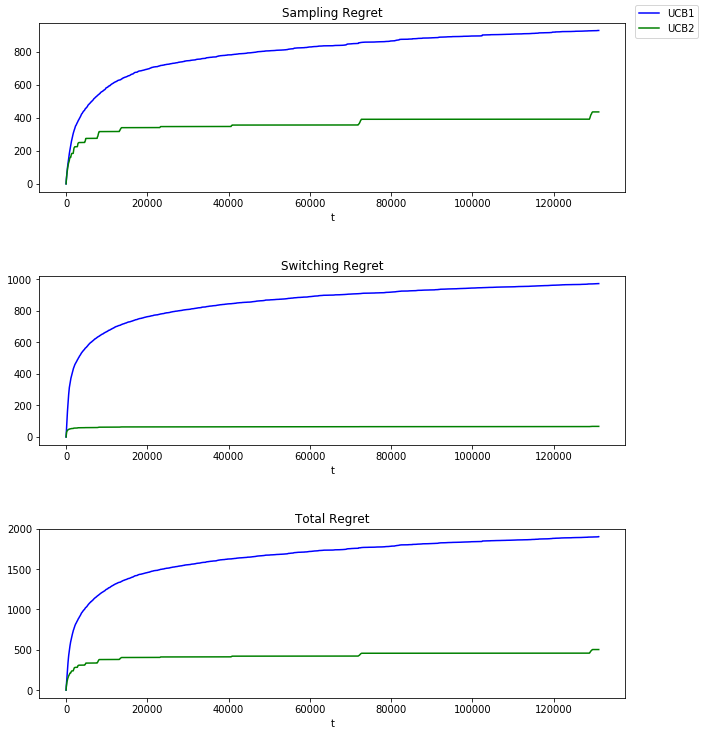
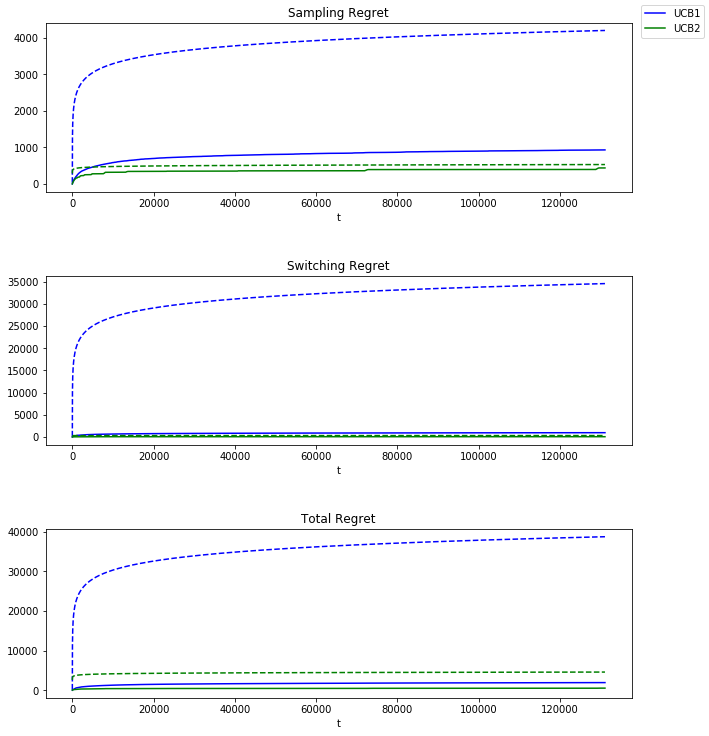
variance and th bounds

diff --git a/experiments/policies.py b/experiments/policies.py
@@ -8,6 +8,7 @@ Created on Wed Jul 18 17:02:18 2018
 from abc import ABC, abstractmethod
 from math import e, log, ceil, pi
 from scipy.optimize import newton
+from regrets import SamplingRegret, SwitchingRegret, TotalRegret
 import numpy as np
 
 #%%
@@ -43,16 +44,9 @@ class Policy(ABC):
         pass
     
     @abstractmethod
-    def theoretical_sampling_bound(self, config):
+    def theoretical_bound(self, config, regret=None):
         """
         Computes the theoretical bound of the sampling regret
-        """
-        pass
-    
-    @abstractmethod
-    def theoretical_switch_bound(self, config):
-        """
-        Computes the theoretical bound of the switching regret
         """
         pass
     
@@ -90,28 +84,26 @@ class UCB1_Policy(Policy):
         self.K = K
     
     
-    def theoretical_sampling_bound(self, config):
-        n = np.arange(config.N)
-        
+    def theoretical_bound(self, config, regret=None):
+        n = np.arange(config.N)+1
         arms = np.arange(config.K)
-        suboptimal_arms = np.concatenate(arms[:config.best_arm], arms[config.best_arm + 1:])
+        suboptimal_arms = np.delete(arms, config.best_arm)
         suboptimal_mu = config.mu[suboptimal_arms]
         delta = config.mu_max - suboptimal_mu
         
-        bound = 8*np.log(n)*np.sum(np.true_divide(1, delta)) + (1 + (pi**2)/3)*np.sum(delta)
-        return bound
-    
-    
-    def theoretical_switch_bound(self, config):
-        n = np.arange(config.N)
+        if type(regret) == SamplingRegret:            
+            bound = 8*np.log(n)*np.sum(np.true_divide(1, delta)) + (1 + (pi**2)/3)*np.sum(delta)
+            return bound
         
-        arms = np.arange(config.K)
-        suboptimal_arms = np.concatenate(arms[:config.best_arm], arms[config.best_arm + 1:])
-        suboptimal_mu = config.mu[suboptimal_arms]
-        delta = config.mu_max - suboptimal_mu
+        if type(regret) == SwitchingRegret:
+            bound = 2*config.K*(1 + (pi**2)/3) + 16*np.log(n)*np.sum(np.true_divide(1, delta**2))
+            return bound
         
-        bound = 2*config.K*(1 + (pi**2)/3) + 16*np.log(n)*np.sum(np.true_divide(1, delta**2))
-        return bound
+        if type(regret) == TotalRegret:
+            bound = 8*np.log(n)*np.sum(np.true_divide(1, delta)) + (1 + (pi**2)/3)*np.sum(delta) + 2*config.K*(1 + (pi**2)/3) + 16*np.log(n)*np.sum(np.true_divide(1, delta**2))
+            return bound
+        
+        print("Error! Default implementation executed!")
         
     
 #%%
@@ -170,23 +162,38 @@ class UCB2_Policy(Policy):
     def __tau(self, r):
         return np.ceil(np.power(1+self.alpha, r))
     
-    def theoretical_sampling_bound(self, config):
-        n = np.arange(config.N)
+    def theoretical_bound(self, config, regret=None):
+        n = np.arange(config.N)+1
         
         arms = np.arange(config.K)
-        suboptimal_arms = np.concatenate(arms[:config.best_arm], arms[config.best_arm + 1:])
+        suboptimal_arms = np.delete(arms, config.best_arm)
         suboptimal_mu = config.mu[suboptimal_arms]
         delta = config.mu_max - suboptimal_mu
         
         c_alpha = 1 + ((1 + self.alpha)*e)/(self.alpha**2) + (((1+self.alpha)/self.alpha)**(1+self.alpha))*(1+(11*(1+self.alpha))/(5*(self.alpha**2)*log(1+self.alpha)))
-        bound = 0
-        for delta_i in delta:
-            bound = bound + (((1+self.alpha)*(1+4*self.alpha)*np.log(2*e*n*(delta_i**2)))/(2*delta_i) + c_alpha/delta_i)
-        return bound
         
-    
-    def theoretical_switch_bound(self, config):
-        pass
+        if type(regret) == SamplingRegret:            
+            bound = 0
+            for delta_i in delta:
+                bound = bound + (((1+self.alpha)*(1 + 4*self.alpha)*np.log(2*e*n*(delta_i**2)))/(2*delta_i) + c_alpha/delta_i)
+                return bound
+        
+        if type(regret) == SwitchingRegret:
+            bound=0
+            for delta_i in delta:
+                bound = bound + np.true_divide(np.log(((1+self.alpha)*(1 + 4*self.alpha)*np.log(2*e*n*(delta_i**2)))/(2*(delta_i**2))+ c_alpha/(delta_i**2) + 1), np.log(1+self.alpha)) 
+            return bound*2
+        
+        if type(regret) == TotalRegret:
+            bound_samp = 0
+            bound_sw = 0
+            for delta_i in delta:
+                bound_samp = bound_samp + (((1+self.alpha)*(1 + 4*self.alpha)*np.log(2*e*n*(delta_i**2)))/(2*delta_i) + c_alpha/delta_i)
+                bound_sw = bound_sw + np.true_divide(np.log(((1+self.alpha)*(1 + 4*self.alpha)*np.log(2*e*n*(delta_i**2)))/(2*(delta_i**2))+ c_alpha/(delta_i**2) + 1), np.log(1+self.alpha))
+            return bound_samp + bound_sw
+        
+        print("Error! Default implementation executed!")
+        
 
 #%%
     
@@ -227,12 +234,9 @@ class KLUCB_Policy(Policy):
         self.K = K
     
     
-    def theoretical_sampling_bound(self, config):
+    def theoretical_bound(self, config, regret=None):
         pass
     
-    
-    def theoretical_switch_bound(self, config):
-        pass
 
 #%%
     
@@ -285,11 +289,27 @@ class UCYCLE_Policy(Policy):
         self.epoch_steps = 0
     
     
-    def theoretical_sampling_bound(self, config):
-        pass
-    
-    
-    def theoretical_switch_bound(self, config):
+    def theoretical_bound(self, config, regret=None):
+#        n = np.arange(config.N)+1
+#        arms = np.arange(config.K)
+#        suboptimal_arms = np.delete(arms, config.best_arm)
+#        suboptimal_mu = config.mu[suboptimal_arms]
+#        delta = config.mu_max - suboptimal_mu
+#        delta_min = np.min(delta)
+#        
+#        if type(regret) == SamplingRegret:            
+#            bound = np.true_divide(48*config.K*np.log(np.true_divide(config.K*(n**4), self.delta)), delta_min) + (10/3)*self.delta*config.K*np.log(np.true_divide(2*n, config.K))
+#            return bound
+#        
+#        if type(regret) == SwitchingRegret:
+#            bound = config.K*np.log(np.true_divide(2*n, config.K))
+#            return bound
+#        
+#        if type(regret) == TotalRegret:
+#            bound = np.true_divide(48*config.K*np.log(np.true_divide(config.K*(n**4), self.delta)), delta_min) + (10/3)*self.delta*config.K*np.log(np.true_divide(2*n, config.K)) + config.K*np.log(np.true_divide(2*n, config.K))
+#            return bound
+#        
+#        print("Error! Default implementation executed!")
         pass
     
 
@@ -316,11 +336,7 @@ class TS_Policy(Policy):
         
     
     
-    def theoretical_sampling_bound(self, config):
-        pass
-    
-    
-    def theoretical_switch_bound(self, config):
+    def theoretical_bound(self, config, regret=None):
         pass
 
 #%%
@@ -370,14 +386,8 @@ class TS2_Policy(Policy):
         self.epochs_arm = np.zeros(K, dtype=np.int32)
     
     
-    def theoretical_sampling_bound(self, config):
+    def theoretical_bound(self, config, regret=None):
         pass
-    
-    
-    def theoretical_switch_bound(self, config):
-        pass
-
-
 
 #%%
         
@@ -433,8 +443,5 @@ class UCB1SC_Policy(Policy):
         self.end_init_phase = K**2 - 1
         self.current_arm = -1
     
-    def theoretical_sampling_bound(self, config):
-        pass
-    
-    def theoretical_switch_bound(self, config):
+    def theoretical_bound(self, config, regret=None):
         pass

diff --git a/experiments/main_regret.py b/experiments/main_regret.py
@@ -24,8 +24,11 @@ def plot_configuration(config_name):
     experiments = loader.load_config_experiments(config_name)
     num_exp = len(list(experiments.values())[0])
     
+    #retrieve configuration
+    config = list(experiments.values())[0][0].config
+    
     #retrive time horizon
-    N = list(experiments.values())[0][0].config.N
+    N = config.N
     
     #retrive policies
     policies=[]
@@ -43,25 +46,33 @@ def plot_configuration(config_name):
             for reg_idx in range(num_regrets):
                 curr_regr = regrets[reg_idx]
                 regret[exp_idx, pol_idx, reg_idx, :] = curr_regr.compute_regret(pulls, curr_exp.config)
+                
     mean_regret = np.mean(regret, axis=0)
     
-    #TODO: varianza del regret
+    #varianza del regret
     std_regret = np.std(regret, axis=0)
-    up = mean_regret + 2*np.true_divide(std_regret, num_exp**0.5)
-    low = mean_regret - 2*np.true_divide(std_regret, num_exp**0.5)
+    error = 2*np.true_divide(std_regret, num_exp**0.5)
+    
+    #compute theoretical bounds
+    th_bounds = np.zeros((num_policies, num_regrets, N))
+    for pol_idx in range(num_policies):
+        for reg_idx in range(num_regrets):
+            th_bounds[pol_idx, reg_idx, :] = policies[pol_idx].theoretical_bound(config, regrets[reg_idx])
     
     #plot the regrets
     titles = []
+    labels = []
     filename = config_name + '_'
     for policy in policies:
         filename = filename + policy.name + '-'
+        labels = labels + [policy.name]
     filename = filename[:-1] + '_'
     for reg_type in regrets:
         titles = titles + [reg_type.description]
         filename = filename + reg_type.name + '-'
     
     plt = Plotter()
-    plt.plot_regret(mean_regret, titles, policies, filename[:-1])
+    plt.plot_regret(mean_regret, error, th_bounds, titles, labels, filename[:-1])
     
     
     

diff --git a/experiments/Plotter.py b/experiments/Plotter.py
@@ -15,7 +15,7 @@ class Plotter():
     The class in charge of plotting the resulting regrets
     """
     
-    def plot_regret(self, regrets, titles, policies, filename):
+    def plot_regret(self, regrets, error, th_bounds, titles, labels, filename):
         """
         Each subplot refers to a specific regret.
         In each subplot the regret of all the policies
@@ -28,9 +28,7 @@ class Plotter():
         n = np.arange(N)
         
         colors = list(mcolors.BASE_COLORS.keys())
-        labels = []
-        for policy in policies:
-            labels = labels + [policy.name]
+        err_colors = ['lightblue', 'lightgreen', 'tomato', 'lavender', 'plum', 'goldenrod', 'grey', 'beige']
     
         plt.figure(1, figsize=(3.5*num_plots,5))
             
@@ -40,7 +38,8 @@ class Plotter():
             plt.xlabel('t')
             lines=[]
             for jj in range(num_lines):
-                line = plt.plot(n, regrets[jj, ii, :], colors[jj]+'-', label=labels[jj])[0]
+                line = plt.errorbar(n, regrets[jj, ii, :], yerr=error[jj, ii, :], fmt=colors[jj]+'-', ecolor=err_colors[jj], label=labels[jj])[0]
+                #plt.plot(n, th_bounds[jj, ii, :], colors[jj]+'--')
                 lines.append(line)
                 
         plt.subplots_adjust(top=2, hspace=0.5)

diff --git a/experiments/Setting.py b/experiments/Setting.py
@@ -22,7 +22,7 @@ class Setting():
                     #TS_Policy(),
                     #TS2_Policy(),
                     #KLUCB_Policy(),
-                    #UCYCLE_Policy()
+                    UCYCLE_Policy()
                     #UCB1SC_Policy()
                     ]
         return policies
